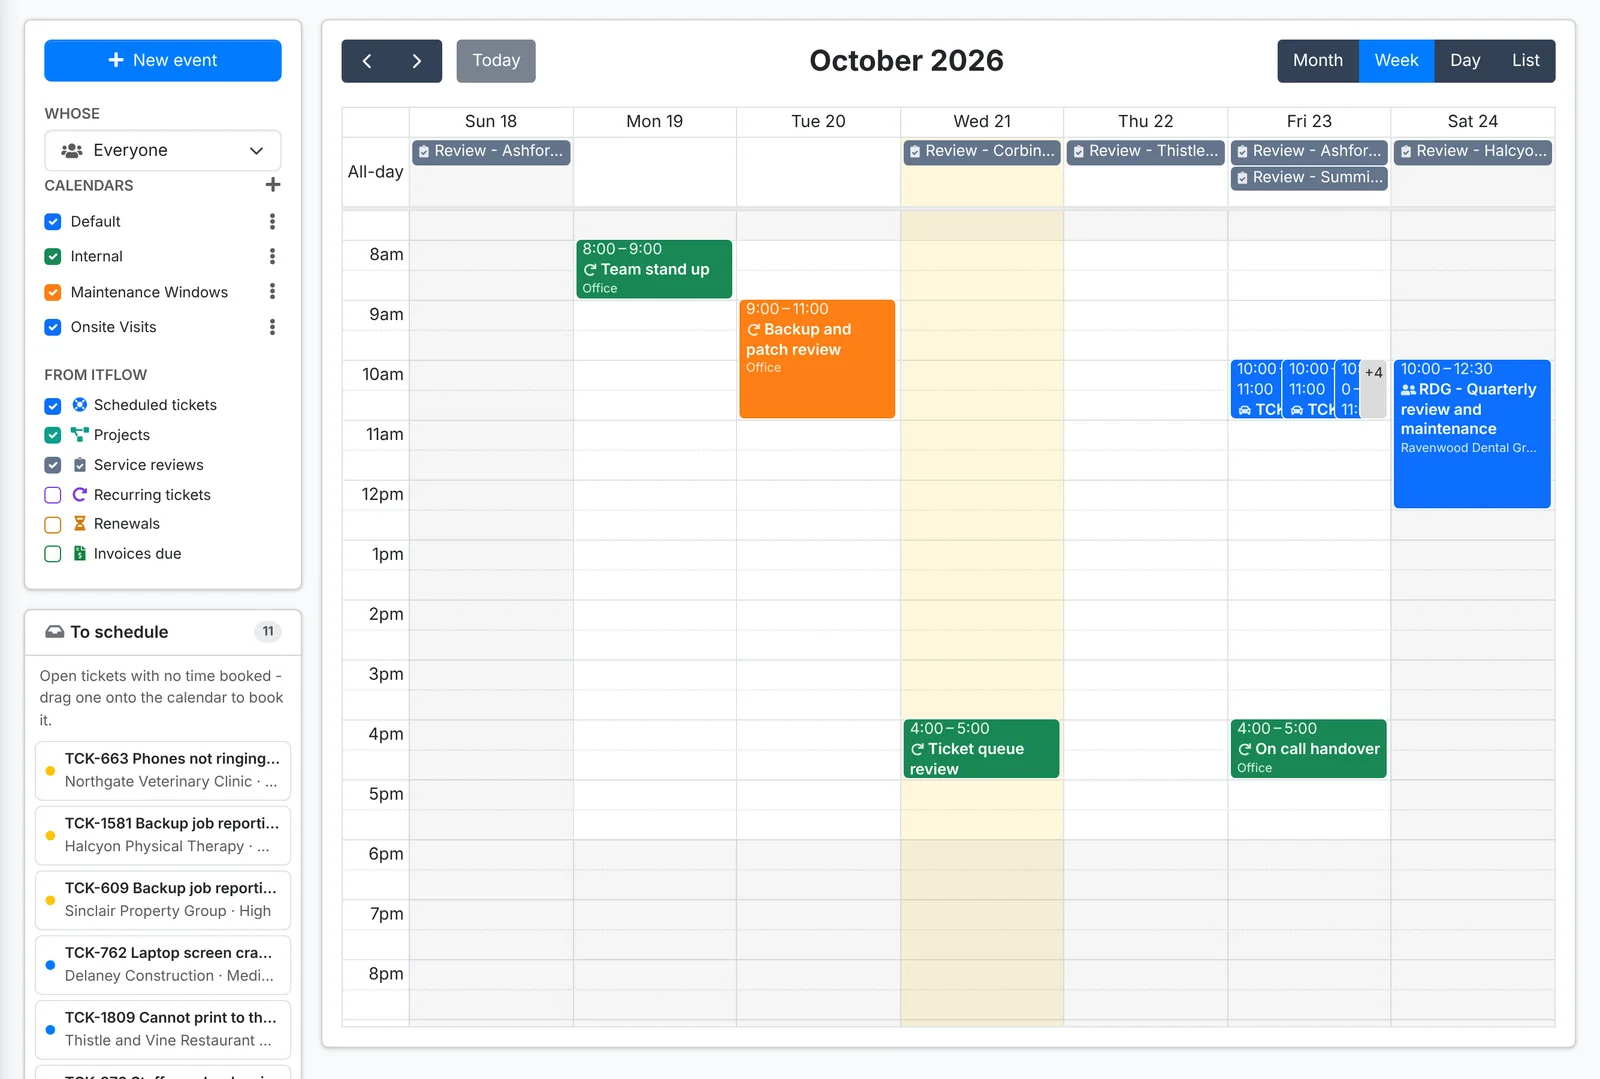
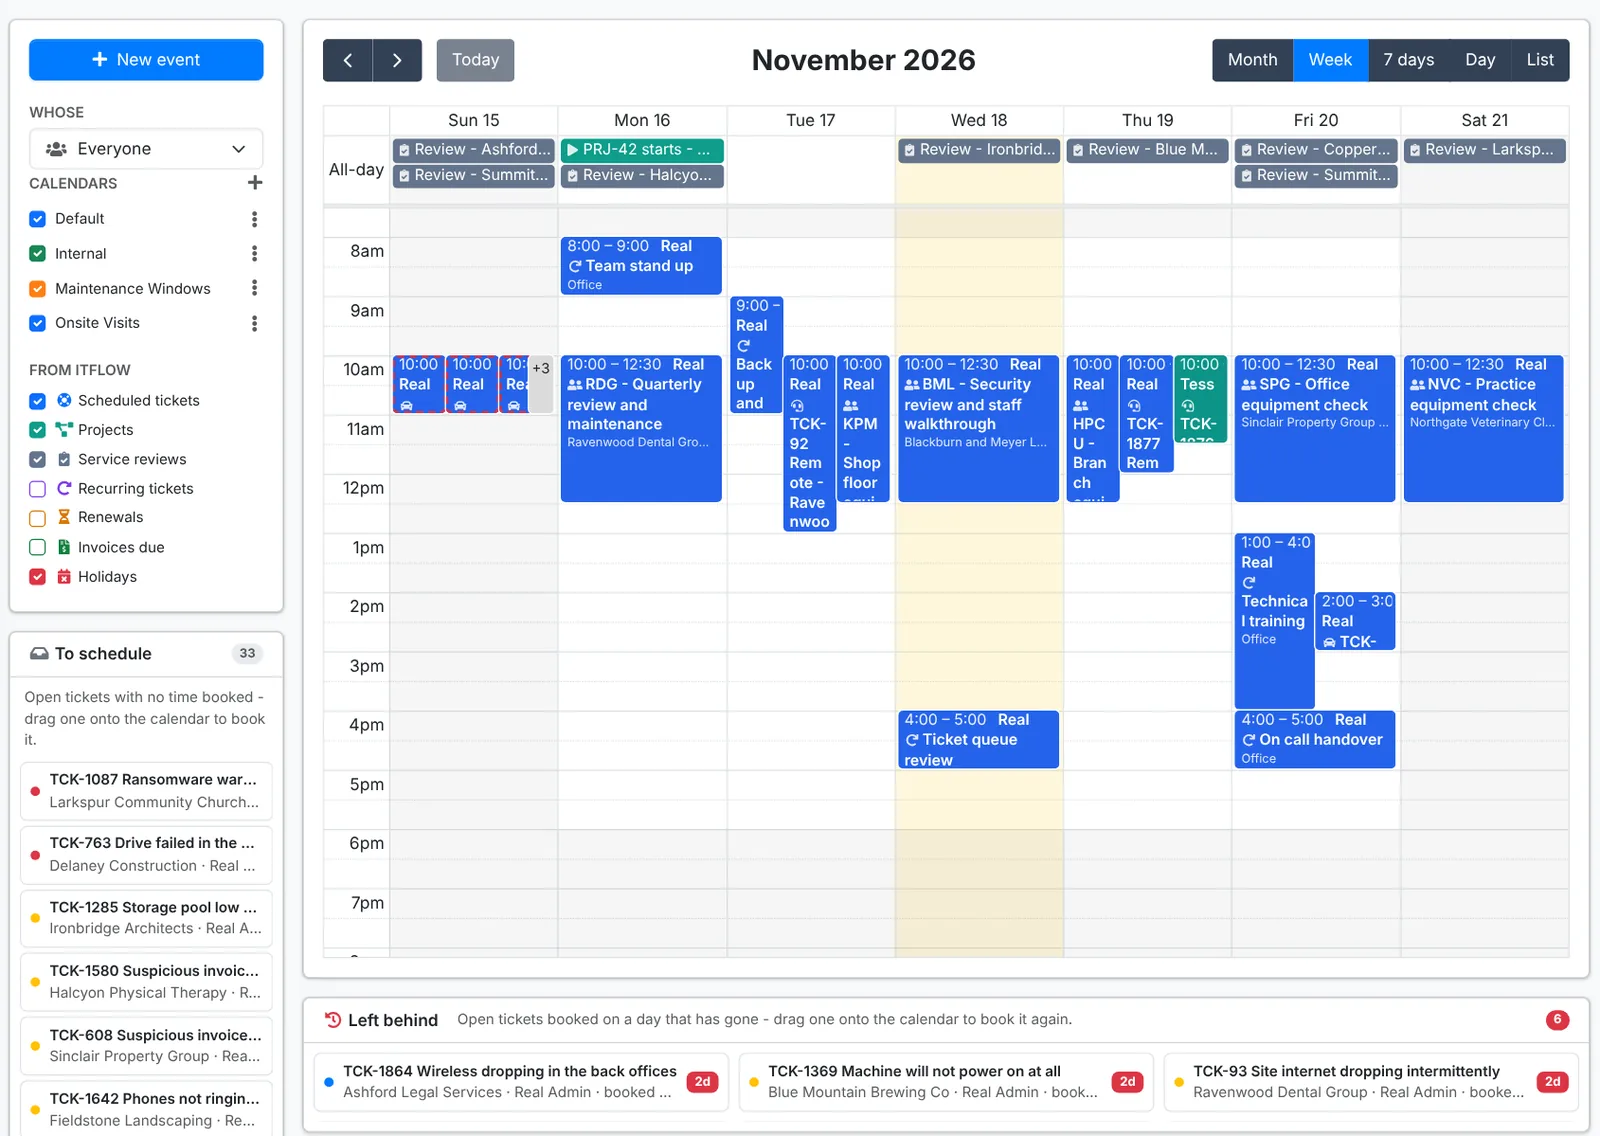
Docs: Calendar covers each technician's colour, events assigned to technicians and Invite, Left behind, the 7 days view, Holidays and the calendar kept to your account, with new screenshots, and Your account and Users cover Calendar color

diff --git a/content/service-desk/calendar.md b/content/service-desk/calendar.md
@@ -6,35 +6,51 @@ where: Calendar
 
 The **Calendar** shows what's booked: tickets scheduled for a visit or a call, events such as meetings and maintenance windows, and dates from the rest of ITFlow. Each client also has its own **Calendar** in its menu.
 
-![The calendar in week view, with events, scheduled tickets and service reviews](sd-calendar-week.webp "The calendar: your own calendars on the left, dates from ITFlow below them, and open tickets waiting to be booked")
+![The calendar in week view, with events, scheduled tickets and service reviews](sd-calendar-week.webp "The calendar: your own calendars on the left, dates from ITFlow below them, open tickets waiting to be booked, and the ones left behind")
 
 ## Find your way around
 
-- **Month**, **Week**, **Day** and **List** at the top right switch the view. The arrows move back and forward, and **Today** brings you back.
-- **Whose** narrows the calendar to one technician, or shows **Everyone**.
+- **Month**, **Week**, **7 days**, **Day** and **List** at the top right switch the view. **7 days** shows seven days from any day, and its arrows move a day at a time - handy for dragging a booking from Friday to Monday without leaving the view. The arrows move back and forward, and **Today** brings you back.
+- **Whose** narrows the calendar to one technician, or shows **Everyone**. The first time you open the calendar it shows your own.
 - **Calendars** lists your team's calendars - Default, Internal, Maintenance Windows, Onsite Visits and any others you add with the **+**. Tick or untick one to show or hide it.
-- **From ITFlow** shows or hides **Scheduled tickets**, **Projects** (start and due dates), **Service reviews**, **Recurring tickets** (when they'll next run), **Renewals** (domains, certificates, licenses and warranties) and **Invoices due**.
+- **From ITFlow** shows or hides **Scheduled tickets**, **Projects** (start and due dates), **Service reviews**, **Recurring tickets** (when they'll next run), **Renewals** (domains, certificates, licenses and warranties), **Invoices due** and **Holidays** (the [closure days](/admin/tickets#closure-days) in **Admin > SLA**).
+
+What you show - the calendars, the dates from ITFlow, **Whose** and the view - is kept to your account, so the calendar opens the same way on your computer and your phone.
 
 Click anything on the calendar to open its quick look. Drag a ticket or event to another time to reschedule it. A booked ticket shows for as long as it was booked - drag its bottom edge to make it longer or shorter, and ITFlow asks before it emails the new time.
 
+## Each technician's colour {#colours}
+
+Every technician has a colour, and their booked tickets and the events assigned to them are drawn in it, so you can see whose day is whose at a glance. In the **Week**, **7 days**, **Day** and **List** views, their first name sits beside the time; hover over anything to see who it's for.
+
+Everyone starts with a colour of their own. To pick yours, go to **Account > Preferences** and choose a **Calendar color** (see [Your account](/getting-started/account#preferences)); an admin can pick anyone's from **Edit** in **Admin > Users**. A ticket nobody is assigned to stays in the **Scheduled tickets** colour.
+
 ## Book an open ticket
 
-**To schedule**, under the calendars, lists open tickets that have no time booked. Drag one onto the calendar to book it for that time. You can also book a ticket from the ticket itself - see [Working a ticket](/service-desk/working-a-ticket#book-a-visit-or-a-call). When you book from the ticket, the window shows the assigned technician's day, so you can see when they're free.
+**To schedule**, under the calendars, lists open tickets that have no time booked - the technician in **Whose**, or, with **Everyone**, everyone's, with who has each. Drag one onto the calendar to book it for that time. You can also book a ticket from the ticket itself - see [Working a ticket](/service-desk/working-a-ticket#book-a-visit-or-a-call). When you book from the ticket, the window shows the assigned technician's day, so you can see when they're free.
+
+## Left behind {#left-behind}
+
+**Left behind**, under the calendar, lists open tickets that were booked on a day that has gone - the work wasn't done, and nobody moved it on. The longest left come first, with how many days ago each was booked, and the old booking has a dashed red outline on the calendar.
+
+Drag one onto the calendar to book it again, for as long as it was booked before, or click it for its quick look. Like **To schedule**, it follows **Whose**. When nothing is left behind, the list folds away to its title.
 
 ## Add an event
 
 1. Click **New event**, or click (or drag across) a time on the calendar.
-2. Give it a **Title** and pick the **Calendar** it goes on.
+2. Give it a **Title**, and pick who it's **Assigned to** - the technicians it's for. It goes on their calendar, in their colour. With more than one calendar, also pick the **Calendar** it's kept on.
 3. Under **When**, set when it **Starts** and **Ends**, or switch on **All day**. Under **Repeats**, pick how often it repeats, if it does - every so many days, weeks, months or years, with an end date and dates to skip. A monthly or yearly one can repeat on a weekday rather than the same date: **Repeats on** offers what its start day is, such as **On the third Wednesday** or **On the last Friday**.
 4. Pick the **Client**, if it's for one, and the **Location** - a client site, a room, an address, or a Teams or Zoom link.
-5. Under **Who**, add technicians and the client's contacts, and anyone else by email.
+5. Under **Invite**, add the client's contacts, and anyone else by email.
 6. Add **Notes**: what it's for, what to bring, who to ask for.
 7. Switch on **Email the invitation to the people on it** to send them a calendar invite their Outlook, Google or phone calendar adds.
 8. Click **Add event**.
 
-![The New Event window](sd-event-new.webp "New Event: when, where, who, and whether to send them an invitation")
+![The New Event window](sd-event-new.webp "New Event: who it's assigned to, when, where, who else is invited, and whether to send them an invitation")
 
-When you change or cancel an event with an invitation, the people on it get an update or a cancellation, and their calendar follows. An event's quick look can download it as a calendar file, or send the invitation again.
+An event added while **Whose** shows one technician starts assigned to them, and shows on their calendar rather than yours.
+
+When you change or cancel an event with an invitation, the people on it get an update or a cancellation, and their calendar follows. An event's quick look changes who it's **Assigned to** without opening **Edit** - a technician taken off who had the invitation gets the cancellation, and one added gets the invitation when the others have it. The quick look can also download the event as a calendar file, or send the invitation again.
 
 ## See your schedule on your phone
 

diff --git a/content/getting-started/account.md b/content/getting-started/account.md
@@ -57,13 +57,14 @@ When you sign in with your code, tick **Remember this browser** and ITFlow doesn
 
 ![The Security page: password, multi-factor authentication and remembered browsers](gs-account-security.webp "Security: your password, MFA and the browsers that skip the code")
 
-## Preferences
+## Preferences {#preferences}
 
-![Preferences: theme, the first day of the week and rows on a list](gs-account-preferences.webp "Preferences")
+![Preferences: theme, the first day of the week, rows on a list and your calendar colour](gs-account-preferences.webp "Preferences")
 
 - **Theme** - **Light** or **Dark**.
 - **Calendars start on** - the first day of the week on the calendar and date pickers.
 - **Rows on a list** - how many rows every list shows on a page. You can also change this at the foot of any list.
+- **Calendar color** - the colour your booked tickets and the events assigned to you are drawn in on the [calendar](/service-desk/calendar#colours). Click one of the twelve, or the box to pick any colour. **Automatic** goes back to the one you started with.
 
 ## Your canned responses
 

diff --git a/content/admin/users.md b/content/admin/users.md
@@ -60,6 +60,8 @@ To change an invite - a different role, say - use **New User** again with the sa
 
 If your installation has a limit on agents, an invite waiting holds a seat until it's accepted, cancelled or runs out, so there's one for them when they join. On an ITFlow [managed by another](/admin/managed-instances#managed-by), the manager may set the limit; its support user, marked **Support**, doesn't take a seat.
 
+Once someone has joined, **Edit** on their **Details** tab also has their **Calendar color** - the colour their booked tickets and the events assigned to them are drawn in on the [calendar](/service-desk/calendar#colours). They can change it themselves under **Account > Preferences**.
+
 ## Which clients they see
 
 By default an agent sees every client. On **Client access** you can set each client to:
